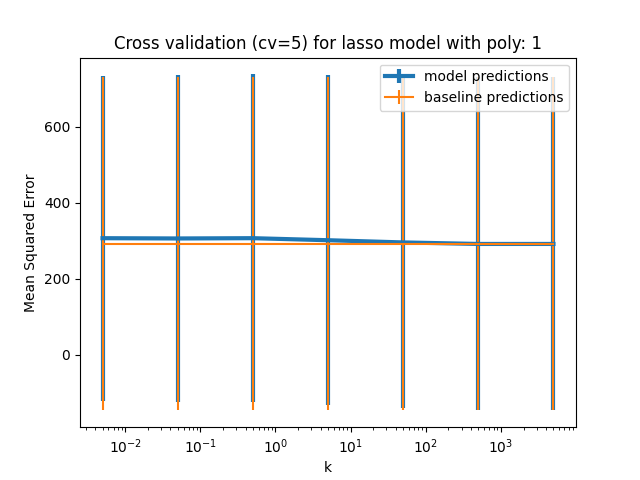
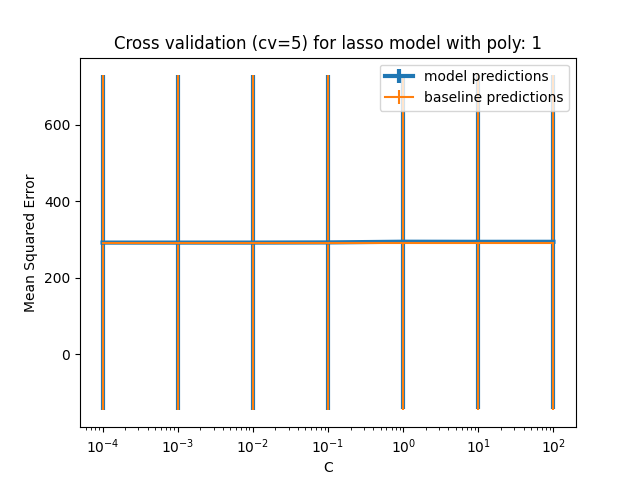
Updated x axis

diff --git a/linRegCrossVal.py b/linRegCrossVal.py
@@ -93,17 +93,21 @@ def Xval(X, y, model, independant_vars, polyCount):
     meanbase_error=[]
     stdbase_error=[]
     
+    plt.clf()
     for independant_var in independant_vars:
         # Select model
         if  (model == "lasso"):
             selectedModel = Lasso(alpha=independant_var).fit(X, y)
+            plt.xlabel('C')
         elif(model == "ridge"):
             selectedModel = Ridge(alpha=independant_var).fit(X, y)
+            plt.xlabel('C')
         #elif(model == "linear"):
         #    selectedModel = LinearRegression().fit(X, y)
         elif(model == "knn"):
             selectedModel = KNeighborsRegressor(n_neighbors=independant_var, weights='uniform').fit(X, y)
-        
+            plt.xlabel('# of neighbours')
+            
         # Run model
         scores = cross_val_score(selectedModel, X, y, cv=5, scoring='neg_mean_squared_error')
         scores = scores * -1
@@ -119,15 +123,17 @@ def Xval(X, y, model, independant_vars, polyCount):
         meanbase_error.append(np.array(scores).mean())
         stdbase_error.append(np.array(scores).std())
     
-    plt.clf()
+    for i in range(0,len(independant_vars)):
+        independant_vars[i] = 1 / (2 * independant_vars[i])
+        
     plt.title('Cross validation (cv=5) for ' + model + ' model with poly: '+ str(polyCount))
     plt.errorbar(independant_vars,mean_error,yerr=std_error,linewidth=3)
     plt.errorbar(independant_vars,meanbase_error,yerr=stdbase_error)
-    plt.xlabel('k'); plt.ylabel('Mean Squared Error')
+    plt.ylabel('Mean Squared Error')
     plt.xscale('log')
     plt.legend(["model predictions", "baseline predictions"])
-    plt.show()
-    # plt.savefig('CV_' + model + '-poly_' + str(polyCount) + '.png')
+    # plt.show()
+    plt.savefig('CV_' + model + '-poly_' + str(polyCount) + '.png')
 
 #def XvalLinear(X, y):
 #    print('\033[4m' + "Ridge mean_squared_error scores" + '\033[0m')
@@ -163,6 +169,6 @@ polyRange = range(1,3)
 for cPoly in polyRange:
     poly = PolynomialFeatures(cPoly)
     powerFeatures = poly.fit_transform(X)
-    XvalLasso(powerFeatures, y, cPoly) 
+    # XvalLasso(powerFeatures, y, cPoly) 
     # XvalRidge(powerFeatures, y, cPoly)     
-    # XvalKNN(powerFeatures, y, cPoly)
+    XvalKNN(powerFeatures, y, cPoly)
